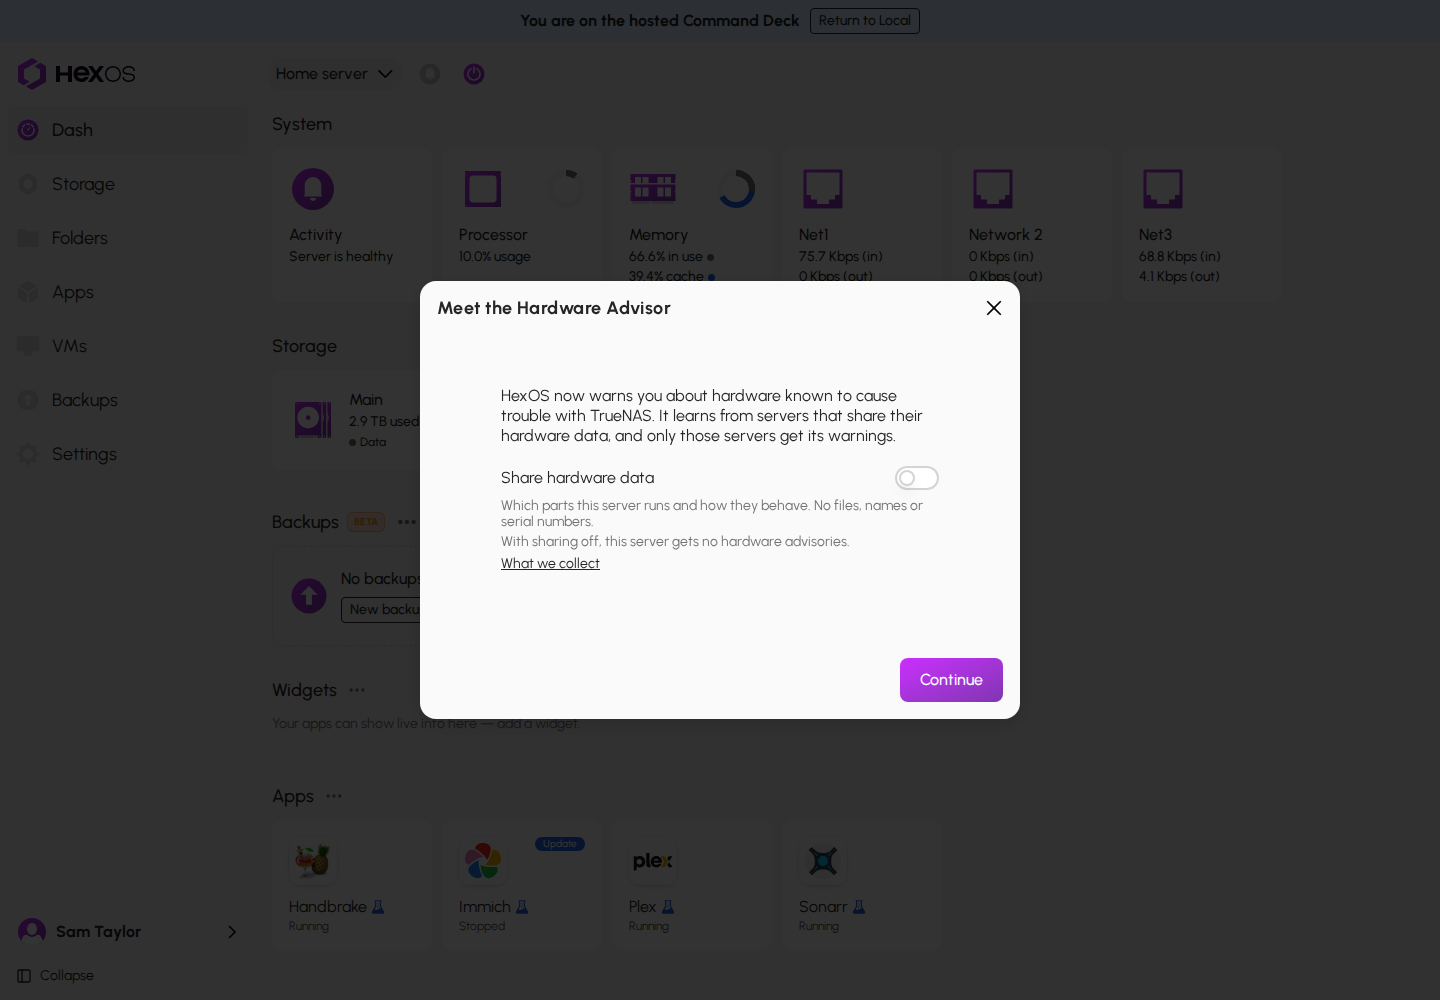
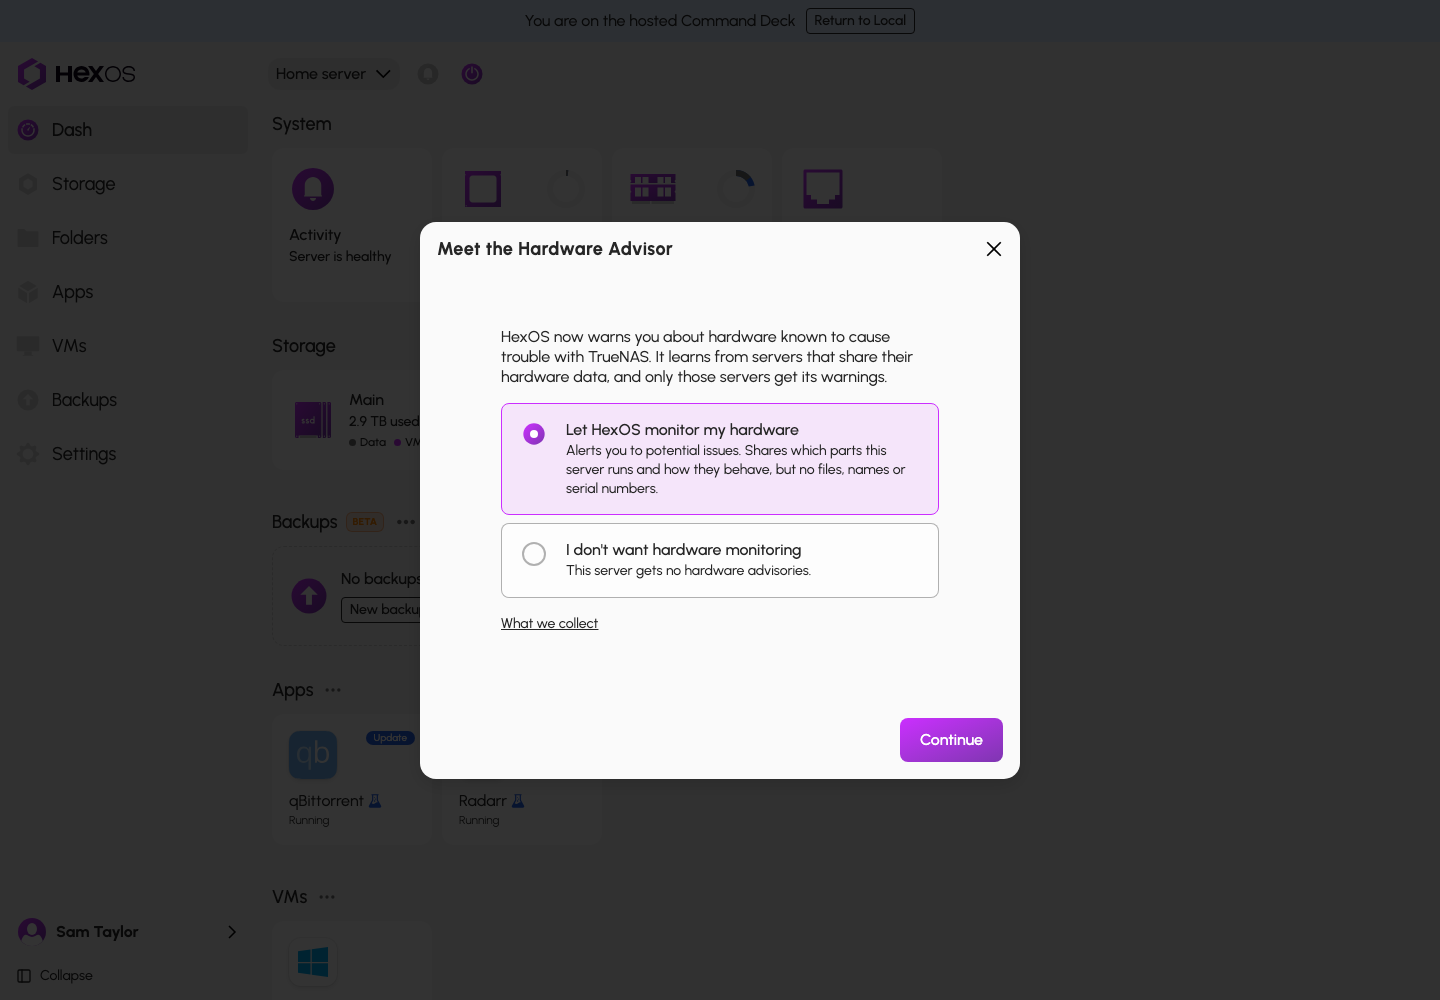
docs: The Meet the Hardware Advisor window asks with two choices, monitoring selected

diff --git a/features/health-and-capabilities.md b/features/health-and-capabilities.md
@@ -2,7 +2,7 @@
 title: Health & Capabilities
 description: Choose whether your server shares hardware data with HexOS, see what it sends, and run diagnostics on your server.
 published: true
-date: 2026-10-07T00:00:00.000Z
+date: 2026-10-09T00:00:00.000Z
 tags: settings, hardware, diagnostics, privacy
 editor: markdown
 dateCreated: 2026-10-07T00:00:00.000Z
@@ -12,7 +12,7 @@ dateCreated: 2026-10-07T00:00:00.000Z
 
 **Health & Capabilities** is a page in **Settings**. It holds two things for the server you have open:
 
-- **Hardware data sharing:** your choice to send HexOS a daily report about your server's hardware. It is off until you turn it on.
+- **Hardware data sharing:** your choice to send HexOS a daily report about your server's hardware. Nothing is sent until you choose to share.
 - **Diagnostics:** a check of your server's storage, memory, network, apps and hardware. You run it whenever you like.
 
 > **Info:** The setup screen named **Health and capabilities** is a different screen. It checks your hardware while you set up a server. See [Complete server setup](/getting-started/setup/CompleteSetup#health-and-capabilities).
@@ -40,7 +40,7 @@ The page starts with a notice: **We are still collecting data before we can enab
 
 The **Share hardware data** switch decides whether this server sends HexOS a daily report about its hardware. [What we collect](#what-we-collect) lists everything in the report.
 
-- Sharing is off until you turn it on. Nothing is sent before you do.
+- Nothing is sent until you choose to share, in the **Meet the Hardware Advisor** window or with the switch.
 - The choice is for one server. If you own several servers, each one has its own switch.
 - Only the server's owner can change it.
 
@@ -53,22 +53,22 @@ Diagnostics works with sharing on or off. Only the **Hardware advisories** part 
 
 ### When HexOS asks
 
-HexOS asks once for each server, in a window named **Meet the Hardware Advisor**. The window opens when you open the server in the Command Deck, after the First Flight guide is closed. The **Share hardware data** switch in the window starts off.
+HexOS asks once for each server, in a window named **Meet the Hardware Advisor**. The window opens when you open the server in the Command Deck, after the First Flight guide is closed. It has two choices, and **Let HexOS monitor my hardware** is selected when the window opens.
 
 <details>
-<summary> Meet the Hardware Advisor window, switch off </summary>
+<summary> Meet the Hardware Advisor window </summary>
 
 ![hardware-advisor-intro.png](/features/health-and-capabilities/images/hardware-advisor-intro.png){.medium .framed}
 </details>
 
-To keep sharing off, click **Continue**. HexOS saves that you chose not to share, and the window does not open again for this server.
+To share, click **Continue**. HexOS saves that you chose to share, and the window does not open again for this server.
 
-To share, click the **Share hardware data** switch so it is on, then click **Continue**.
+To keep sharing off, click **I don't want hardware monitoring**, then click **Continue**. HexOS saves that you chose not to share, and the window does not open again for this server.
 
 <details>
-<summary> Meet the Hardware Advisor window, switch on </summary>
+<summary> Meet the Hardware Advisor window, no monitoring </summary>
 
-![hardware-advisor-intro-on.png](/features/health-and-capabilities/images/hardware-advisor-intro-on.png){.medium .framed}
+![hardware-advisor-intro-off.png](/features/health-and-capabilities/images/hardware-advisor-intro-off.png){.medium .framed}
 </details>
 
 If you close the window without clicking **Continue**, nothing is saved. The window opens again the next time you open HexOS in a new browser tab.
@@ -271,14 +271,14 @@ If the page says **This server needs a HexOS update before it can run diagnostic
 
 These are problems we know about. Each one says what to do for now.
 
-- **The Meet the Hardware Advisor window keeps coming back.** It opens again in each new browser tab until you click **Continue**, and it asks once for each server you own. What to do: click **Continue**. Leave the switch off if you do not want to share. Your choice is saved and the window stops opening for that server.
+- **The Meet the Hardware Advisor window keeps coming back.** It opens again in each new browser tab until you click **Continue**, and it asks once for each server you own. What to do: pick one of the two choices and click **Continue**. Your choice is saved and the window stops opening for that server.
 - **Hardware warnings show only in diagnostics.** The window talks about HexOS warning you about hardware, but the dashboard does not show these warnings yet. What to do: run diagnostics and read **Hardware advisories**.
 - **You cannot mark a hardware advisory as fixed.** When HexOS cannot detect a fix on its own, the warning stays in the report after you apply the fix and still counts as a thing that needs your attention. One example is the BIOS setting for [Ryzen idle freezes](/troubleshooting/ryzen-idle-freeze). What to do: if you have applied the fix that the **Learn more** page describes, you can ignore that entry.
 
 ## Frequently asked questions
 
 **Do I have to share hardware data to use HexOS?**
-No. Sharing is your choice, and it starts off. Diagnostics works without it. Only **Hardware advisories** in the diagnostics report need sharing.
+No. Sharing is your choice, and nothing is sent until you make it. To say no in the **Meet the Hardware Advisor** window, click **I don't want hardware monitoring** before you click **Continue**. Diagnostics works without sharing. Only **Hardware advisories** in the diagnostics report need sharing.
 
 **Is the data anonymous?**
 No. Each report is linked to the server that sent it. Drives and network ports are identified by private codes, not by serial numbers or names, and no files, passwords or system log lines are sent. See [What we collect](#what-we-collect).
